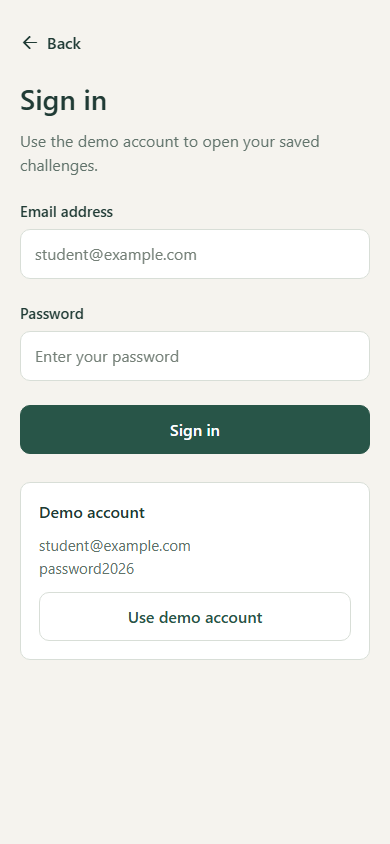
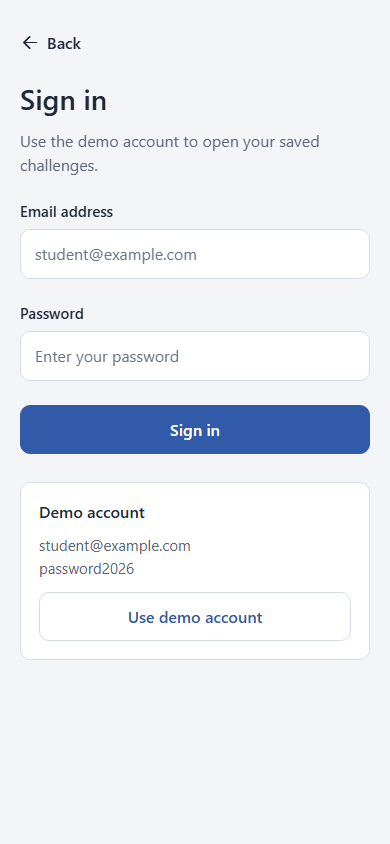
Give Flaminary a blue and cool grey palette
Share semantic color values across screens, controls and launch assets. Refresh ten screenshots and the student's own-voice recording guide for version 1.1.1.

Passed lint, module checks, 15 storage tests, 10 browser workflows, all 20 Expo Doctor checks, dependency alignment and web/iOS/Android exports. No new video recorded.

Changed region(s): [[0.0308, 0.4621, 0.9538, 0.5545], [0.3385, 0.7085, 0.6769, 0.7393]]

diff --git a/src/app/(tabs)/today.jsx b/src/app/(tabs)/today.jsx
@@ -5,6 +5,7 @@ import AppButton from "../../components/AppButton";
 import AppScreen from "../../components/AppScreen";
 import EmptyState from "../../components/EmptyState";
 import FeedbackBanner from "../../components/FeedbackBanner";
+import { colors } from "../../constants/theme";
 import { useApp } from "../../context/AppContext.jsx";
 import { KIT_PIECES } from "../../data/constants.js";
 
@@ -90,21 +91,21 @@ export default function TodayScreen() {
 }
 
 const styles = StyleSheet.create({
-    date: { color: "#61736B", fontSize: 16, marginBottom: 8 },
-    heading: { color: "#203B35", fontSize: 26, fontWeight: "700", marginBottom: 8 },
-    subtitle: { color: "#61736B", fontSize: 16, lineHeight: 24, marginBottom: 24 },
+    date: { color: colors.muted, fontSize: 16, marginBottom: 8 },
+    heading: { color: colors.text, fontSize: 26, fontWeight: "700", marginBottom: 8 },
+    subtitle: { color: colors.muted, fontSize: 16, lineHeight: 24, marginBottom: 24 },
     card: {
-        backgroundColor: "#FFFFFF",
+        backgroundColor: colors.surface,
         borderWidth: 1,
-        borderColor: "#D8DED7",
+        borderColor: colors.border,
         borderRadius: 10,
         padding: 20,
         marginBottom: 16,
     },
-    category: { color: "#61736B", fontSize: 14, marginBottom: 10 },
-    title: { color: "#203B35", fontSize: 22, lineHeight: 29, fontWeight: "600", marginBottom: 18 },
-    label: { color: "#203B35", fontSize: 16, fontWeight: "600", marginBottom: 6 },
-    body: { color: "#203B35", fontSize: 16, lineHeight: 25, marginBottom: 14 },
-    details: { borderTopWidth: 1, borderTopColor: "#D8DED7", paddingTop: 16, marginTop: 2 },
-    completed: { color: "#285548", fontSize: 16, fontWeight: "600" },
+    category: { color: colors.muted, fontSize: 14, marginBottom: 10 },
+    title: { color: colors.text, fontSize: 22, lineHeight: 29, fontWeight: "600", marginBottom: 18 },
+    label: { color: colors.text, fontSize: 16, fontWeight: "600", marginBottom: 6 },
+    body: { color: colors.text, fontSize: 16, lineHeight: 25, marginBottom: 14 },
+    details: { borderTopWidth: 1, borderTopColor: colors.border, paddingTop: 16, marginTop: 2 },
+    completed: { color: colors.success, fontSize: 16, fontWeight: "600" },
 });

diff --git a/src/app/(tabs)/progress.jsx b/src/app/(tabs)/progress.jsx
@@ -5,6 +5,7 @@ import AppScreen from "../../components/AppScreen";
 import ChallengeCard from "../../components/ChallengeCard";
 import EmptyState from "../../components/EmptyState";
 import FeedbackBanner from "../../components/FeedbackBanner";
+import { colors } from "../../constants/theme";
 import { useApp } from "../../context/AppContext.jsx";
 
 export default function ProgressScreen() {
@@ -91,20 +92,20 @@ const styles = StyleSheet.create({
         gap: 16,
         marginBottom: 24,
     },
-    heading: { color: "#203B35", fontSize: 26, fontWeight: "700", flex: 1 },
+    heading: { color: colors.text, fontSize: 26, fontWeight: "700", flex: 1 },
     logoutAction: { minHeight: 44, justifyContent: "center", paddingLeft: 10 },
-    logoutText: { color: "#285548", fontSize: 16, fontWeight: "600" },
+    logoutText: { color: colors.primary, fontSize: 16, fontWeight: "600" },
     summary: {
-        backgroundColor: "#FFFFFF",
+        backgroundColor: colors.surface,
         borderWidth: 1,
-        borderColor: "#D8DED7",
+        borderColor: colors.border,
         borderRadius: 10,
         padding: 20,
         marginBottom: 26,
     },
-    count: { color: "#203B35", fontSize: 16, lineHeight: 25, marginBottom: 10 },
-    note: { color: "#61736B", fontSize: 14, lineHeight: 22, marginTop: 4 },
-    sectionHeading: { color: "#203B35", fontSize: 20, fontWeight: "600", marginBottom: 16 },
+    count: { color: colors.text, fontSize: 16, lineHeight: 25, marginBottom: 10 },
+    note: { color: colors.muted, fontSize: 14, lineHeight: 22, marginTop: 4 },
+    sectionHeading: { color: colors.text, fontSize: 20, fontWeight: "600", marginBottom: 16 },
     completedItem: { marginBottom: 8 },
-    date: { color: "#61736B", fontSize: 14, marginBottom: 8 },
+    date: { color: colors.muted, fontSize: 14, marginBottom: 8 },
 });

diff --git a/src/app/(tabs)/explore.jsx b/src/app/(tabs)/explore.jsx
@@ -9,6 +9,7 @@ import ChallengeCard from "../../components/ChallengeCard";
 import EmptyState from "../../components/EmptyState";
 import FeedbackBanner from "../../components/FeedbackBanner";
 import FilterChips from "../../components/FilterChips";
+import { colors } from "../../constants/theme";
 import { useApp } from "../../context/AppContext.jsx";
 
 export default function ExploreScreen() {
@@ -154,10 +155,10 @@ const styles = StyleSheet.create({
         gap: 16,
         marginBottom: 24,
     },
-    heading: { flex: 1, color: "#203B35", fontSize: 26, fontWeight: "700" },
+    heading: { flex: 1, color: colors.text, fontSize: 26, fontWeight: "700" },
     addAction: { width: 88 },
     filterGroup: { marginTop: 8, marginBottom: 12 },
-    label: { color: "#203B35", fontSize: 16, fontWeight: "600", marginBottom: 8 },
+    label: { color: colors.text, fontSize: 16, fontWeight: "600", marginBottom: 8 },
     resultsRow: {
         flexDirection: "row",
         alignItems: "center",
@@ -166,7 +167,7 @@ const styles = StyleSheet.create({
         marginTop: 8,
         marginBottom: 16,
     },
-    resultCount: { color: "#61736B", fontSize: 14, flex: 1 },
+    resultCount: { color: colors.muted, fontSize: 14, flex: 1 },
     clearAction: { minHeight: 44, justifyContent: "center", paddingLeft: 8 },
-    clearText: { color: "#285548", fontSize: 14, fontWeight: "600" },
+    clearText: { color: colors.primary, fontSize: 14, fontWeight: "600" },
 });

diff --git a/src/app/(tabs)/_layout.jsx b/src/app/(tabs)/_layout.jsx
@@ -1,6 +1,7 @@
 import { Ionicons } from "@react-native-vector-icons/ionicons";
 import { Tabs } from "expo-router";
 import { useSafeAreaInsets } from "react-native-safe-area-context";
+import { colors } from "../../constants/theme";
 
 export default function PracticeTabs() {
     const insets = useSafeAreaInsets();
@@ -10,12 +11,12 @@ export default function PracticeTabs() {
             backBehavior="history"
             screenOptions={{
                 headerShown: false,
-                sceneStyle: { backgroundColor: "#F5F3EE" },
-                tabBarActiveTintColor: "#285548",
-                tabBarInactiveTintColor: "#61736B",
+                sceneStyle: { backgroundColor: colors.background },
+                tabBarActiveTintColor: colors.primary,
+                tabBarInactiveTintColor: colors.muted,
                 tabBarStyle: {
-                    backgroundColor: "#FFFFFF",
-                    borderTopColor: "#D8DED7",
+                    backgroundColor: colors.surface,
+                    borderTopColor: colors.border,
                     height: 60 + Math.max(insets.bottom, 10),
                     paddingTop: 8,
                     paddingBottom: Math.max(insets.bottom, 10),

diff --git a/src/app/_layout.jsx b/src/app/_layout.jsx
@@ -6,6 +6,7 @@ import { SafeAreaProvider } from "react-native-safe-area-context";
 import AppScreen from "../components/AppScreen";
 import Brand from "../components/Brand";
 import EmptyState from "../components/EmptyState";
+import { colors } from "../constants/theme";
 import { AppProvider, useApp } from "../context/AppContext";
 
 function Navigation() {
@@ -15,7 +16,7 @@ function Navigation() {
         return (
             <AppScreen centered>
                 <Brand />
-                <ActivityIndicator color="#285548" size="large" style={styles.loader} />
+                <ActivityIndicator color={colors.primary} size="large" style={styles.loader} />
                 <Text style={styles.loadingText}>Loading my challenges...</Text>
             </AppScreen>
         );
@@ -63,7 +64,7 @@ export default function RootLayout() {
 }
 
 const styles = StyleSheet.create({
-    background: { backgroundColor: "#F5F3EE" },
+    background: { backgroundColor: colors.background },
     loader: { marginTop: 40, marginBottom: 20 },
-    loadingText: { color: "#61736B", textAlign: "center", fontSize: 15 },
+    loadingText: { color: colors.muted, textAlign: "center", fontSize: 15 },
 });

diff --git a/src/components/AppButton.jsx b/src/components/AppButton.jsx
@@ -16,7 +16,7 @@ export default function AppButton({
     const inactive = disabled || loading;
     const foreground =
         variant === "primary"
-            ? colors.onLime
+            ? colors.onPrimary
             : variant === "danger"
               ? colors.error
               : colors.primary;
@@ -72,10 +72,10 @@ const styles = StyleSheet.create({
         gap: 8,
         borderWidth: 1,
     },
-    primary: { backgroundColor: colors.lime, borderColor: colors.lime },
+    primary: { backgroundColor: colors.primary, borderColor: colors.primary },
     secondary: { backgroundColor: colors.surface, borderColor: colors.border },
     ghost: { backgroundColor: "transparent", borderColor: "transparent" },
-    danger: { backgroundColor: colors.errorSurface, borderColor: "#E5BEB6" },
+    danger: { backgroundColor: colors.errorSurface, borderColor: colors.errorBorder },
     text: { fontSize: 16, fontWeight: "600", lineHeight: 23 },
     disabled: { opacity: 0.5 },
     pressed: { opacity: 0.75 },

diff --git a/src/constants/theme.js b/src/constants/theme.js
@@ -1,19 +1,19 @@
 export const colors = {
-    background: "#F5F3EE",
+    background: "#F3F5F8",
     surface: "#FFFFFF",
     card: "#FFFFFF",
-    surfaceRaised: "#EAF0E9",
-    border: "#D8DED7",
-    text: "#203B35",
-    muted: "#61736B",
-    subtle: "#758078",
-    lime: "#285548",
-    accent: "#285548",
-    primary: "#285548",
-    onLime: "#FFFFFF",
-    error: "#A03026",
-    errorSurface: "#FFF1EE",
-    success: "#285548",
+    surfaceRaised: "#E8EEF8",
+    border: "#D5DCE6",
+    text: "#1F2937",
+    muted: "#5C6678",
+    subtle: "#697586",
+    accent: "#315AA8",
+    primary: "#315AA8",
+    onPrimary: "#FFFFFF",
+    error: "#B42335",
+    errorSurface: "#FFF0F2",
+    errorBorder: "#EABCC5",
+    success: "#315AA8",
 };
 export const spacing = { xs: 4, sm: 8, md: 12, lg: 20, xl: 24, xxl: 32, screen: 20 };
 export const radii = { sm: 8, md: 10, lg: 12, pill: 10 };

diff --git a/src/components/FeedbackBanner.jsx b/src/components/FeedbackBanner.jsx
@@ -5,7 +5,7 @@ import { colors, radii, typography } from "../constants/theme";
 export default function FeedbackBanner({ message, type = "error", onDismiss, style }) {
     if (!message) return null;
     const error = type === "error";
-    const color = error ? colors.error : colors.lime;
+    const color = error ? colors.error : colors.primary;
     return (
         <View
             accessibilityRole="alert"
@@ -44,7 +44,7 @@ const styles = StyleSheet.create({
         gap: 10,
         marginBottom: 16,
     },
-    error: { backgroundColor: colors.errorSurface, borderColor: "#E5BEB6" },
+    error: { backgroundColor: colors.errorSurface, borderColor: colors.errorBorder },
     message: { ...typography.small, fontSize: 15, lineHeight: 22, flex: 1 },
     dismiss: { minWidth: 44, minHeight: 44, alignItems: "center", justifyContent: "center" },
 });

diff --git a/src/components/AppTextInput.jsx b/src/components/AppTextInput.jsx
@@ -18,7 +18,7 @@ export default function AppTextInput({
             {label ? <Text style={styles.label}>{label}</Text> : null}
             <TextInput
                 placeholderTextColor={colors.subtle}
-                selectionColor={colors.lime}
+                selectionColor={colors.primary}
                 underlineColorAndroid="transparent"
                 accessibilityLabel={label || props.accessibilityLabel || props.placeholder}
                 multiline={multiline}
@@ -64,7 +64,7 @@ const styles = StyleSheet.create({
         lineHeight: 24,
     },
     multiline: { minHeight: 112 },
-    focused: { borderColor: colors.lime },
+    focused: { borderColor: colors.primary },
     invalid: { borderColor: colors.error },
     error: { ...typography.small, color: colors.error, marginTop: 7 },
 });

diff --git a/src/app/editor.jsx b/src/app/editor.jsx
@@ -267,7 +267,7 @@ const styles = StyleSheet.create({
         borderColor: colors.border,
         backgroundColor: colors.surface,
     },
-    kitSelected: { backgroundColor: "#E6EEE7", borderColor: colors.primary },
+    kitSelected: { backgroundColor: colors.surfaceRaised, borderColor: colors.primary },
     kitText: { fontSize: 14, color: colors.text },
     kitTextSelected: { color: colors.primary, fontWeight: "600" },
     numbers: { flexDirection: "row", gap: 16 },

diff --git a/src/components/EmptyState.jsx b/src/components/EmptyState.jsx
@@ -14,7 +14,7 @@ export default function EmptyState({
     return (
         <View style={[styles.container, style]}>
             <View style={styles.icon}>
-                <Ionicons name={icon} size={27} color={colors.lime} />
+                <Ionicons name={icon} size={27} color={colors.primary} />
             </View>
             <Text style={styles.title}>{title}</Text>
             {message ? <Text style={styles.message}>{message}</Text> : null}

diff --git a/src/components/FilterChips.jsx b/src/components/FilterChips.jsx
@@ -64,6 +64,6 @@ const styles = StyleSheet.create({
     },
     selected: { backgroundColor: colors.primary, borderColor: colors.primary },
     label: { fontSize: 15, fontWeight: "500", color: colors.muted },
-    selectedLabel: { color: colors.onLime },
+    selectedLabel: { color: colors.onPrimary },
     pressed: { opacity: 0.75 },
 });
